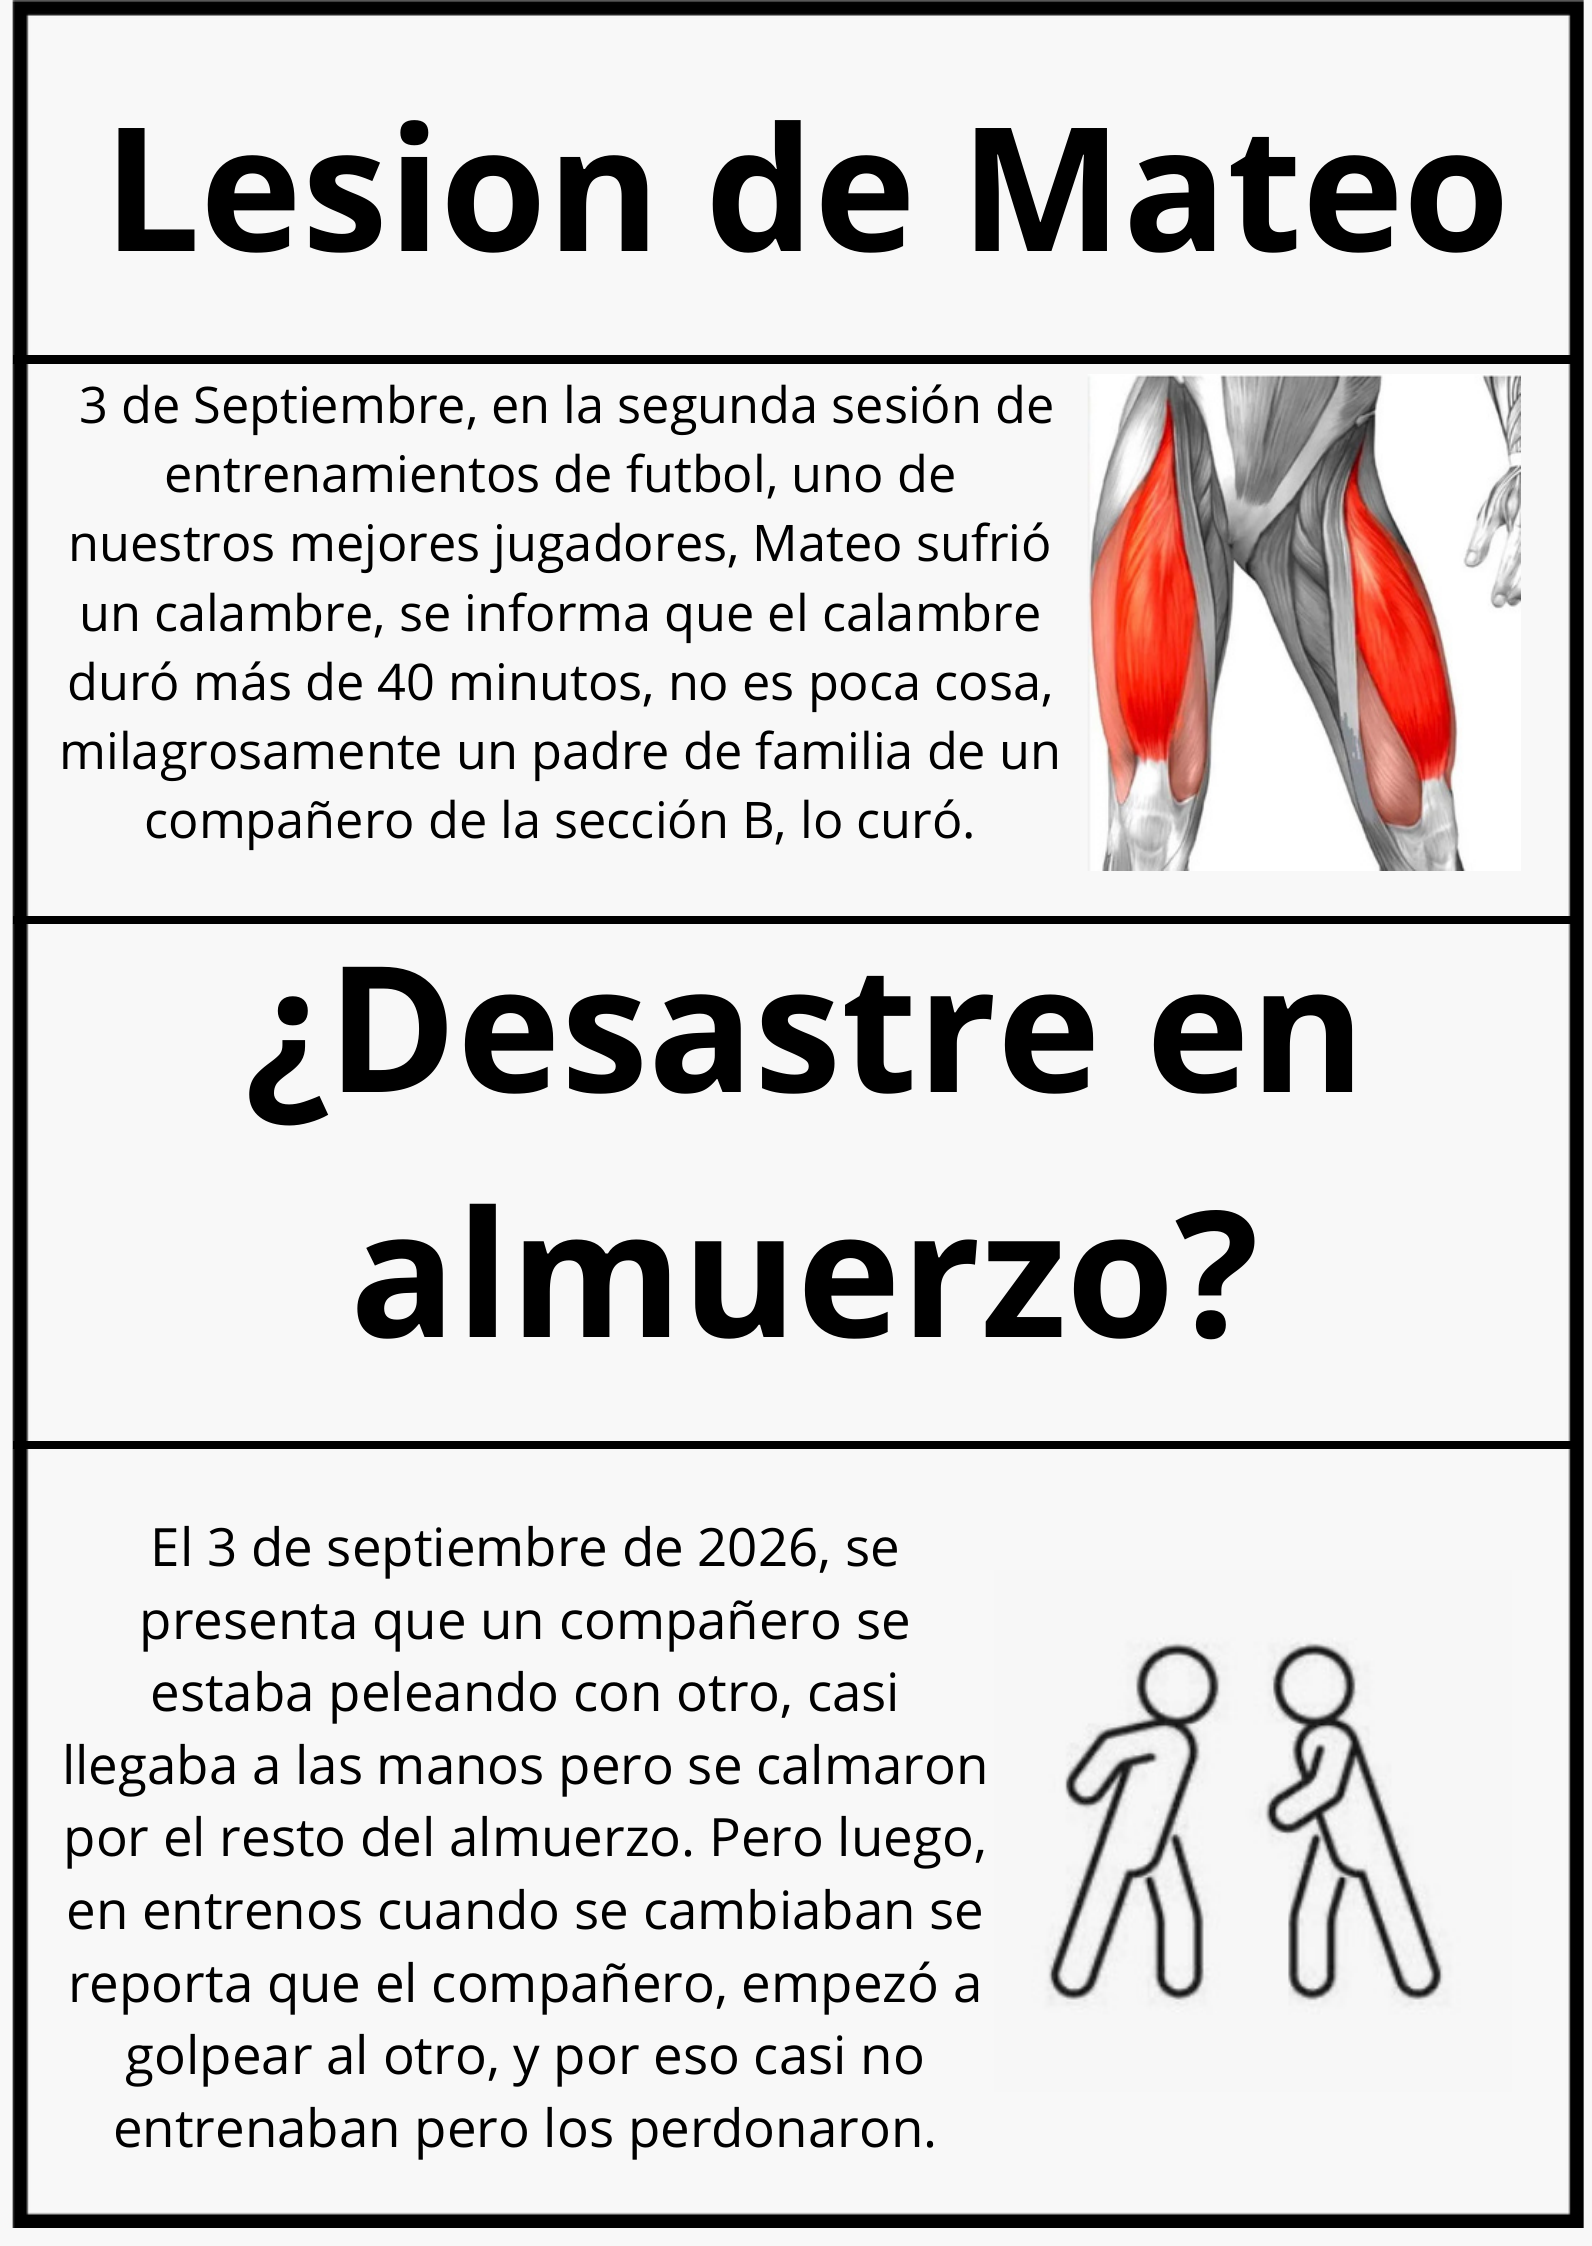
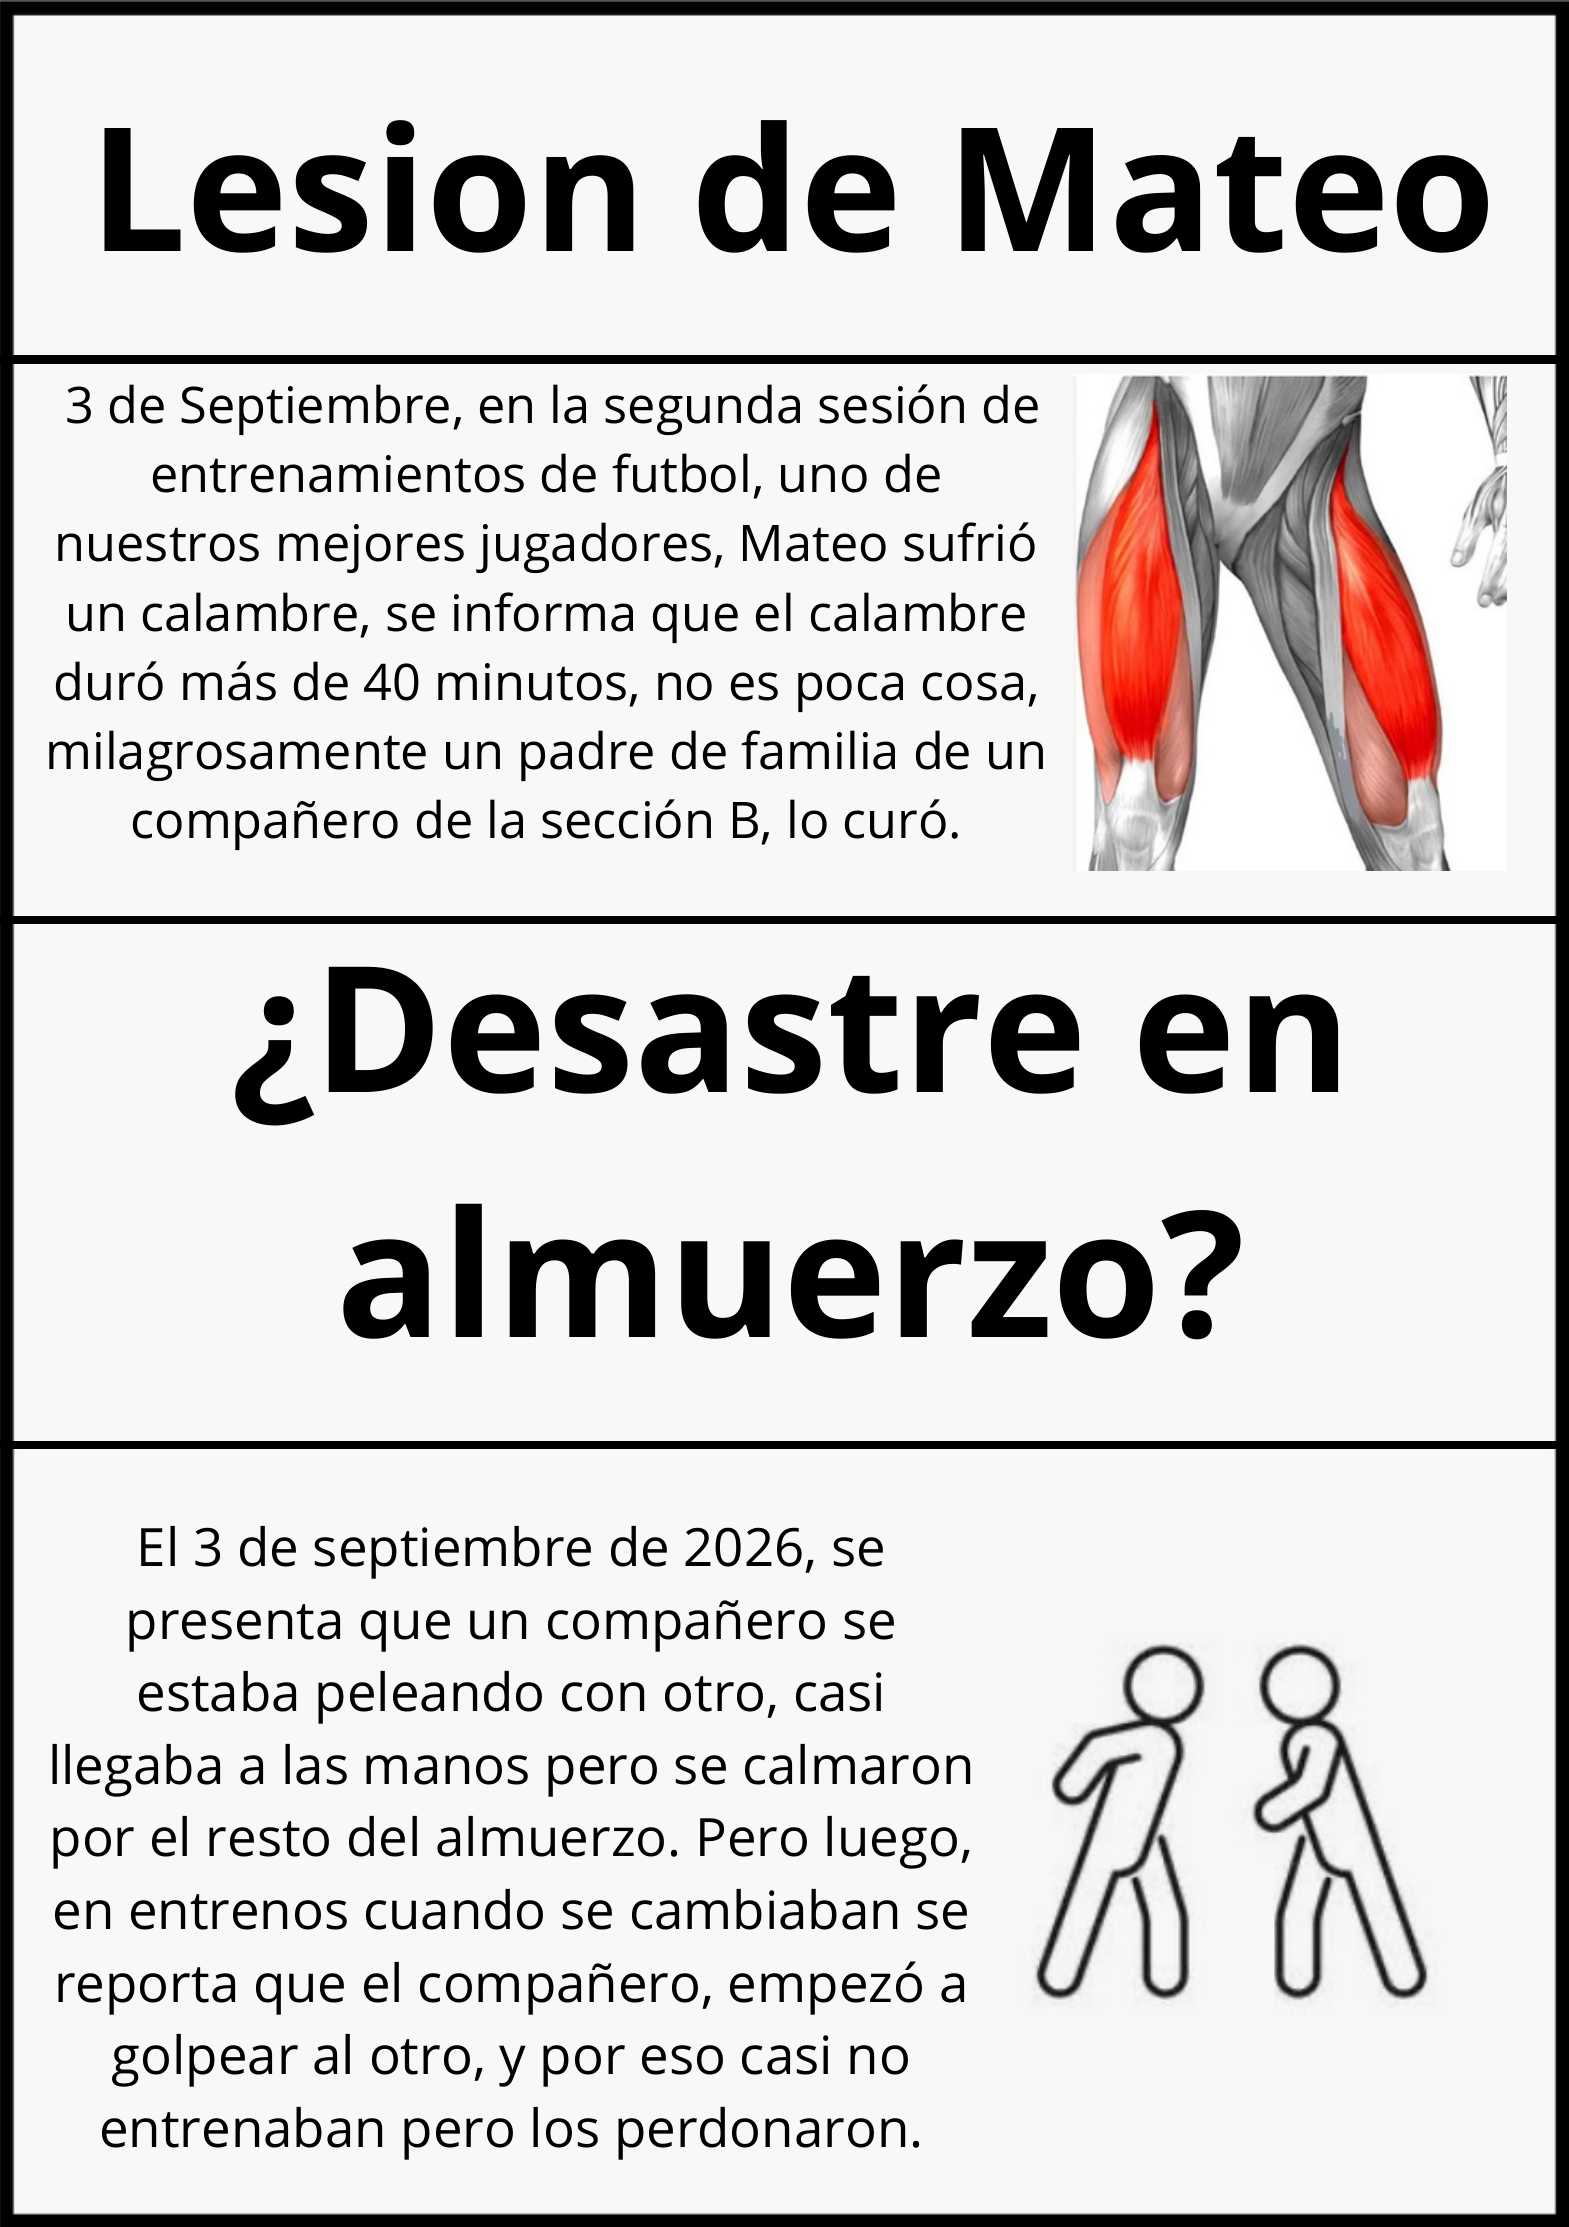
fix(periodico): recortar pegado al marco negro, sin margen blanco
Antes: el crop dejaba white margin entre el borde del marco negro y
el borde de la imagen. Ahora detecta las filas/columnas donde >=35%
de los pixeles son oscuros (empiricamente las 4 lineas del marco
tienen ~39% de densidad en el eje que las atraviesa) y usa la
primera/ultima como los bordes exactos del crop. Marco negro pegado
al borde en las 5 paginas.

Ajuste menor de aspect-ratio (1569:2227 en vez de 1592:2246) tanto
en la home embebida como en /periodico/.

diff --git a/periodico/index.html b/periodico/index.html
@@ -122,10 +122,10 @@
   }
   .book {
     position: relative;
-    /* Aspect ratio de las paginas cropeadas: 1592x2246 ≈ 0.71:1 (portrait).
-       Ancho limitado para que la altura (=width / 0.71) no pase 82vh. */
-    width: min(94vw, calc(82vh * 0.71), 620px);
-    aspect-ratio: 1592 / 2246;
+    /* Aspect ratio de las paginas cropeadas: 1569x2227 ≈ 0.705:1 (portrait).
+       Ancho limitado para que la altura (=width / 0.705) no pase 82vh. */
+    width: min(94vw, calc(82vh * 0.705), 620px);
+    aspect-ratio: 1569 / 2227;
     filter: drop-shadow(0 30px 60px rgba(12,24,70,.22)) drop-shadow(0 8px 18px rgba(12,24,70,.14));
   }
   .page {

diff --git a/index.html b/index.html
@@ -1672,10 +1672,10 @@
   }
   .perio-book {
     position: relative;
-    /* Paginas cropeadas 1592x2246 (portrait). Width limitada para que
-       height (=width/0.71) no pase 78vh. */
-    width: min(94vw, calc(78vh * 0.71), 600px);
-    aspect-ratio: 1592 / 2246;
+    /* Paginas cropeadas 1569x2227 (portrait). Width limitada para que
+       height (=width/0.705) no pase 78vh. */
+    width: min(94vw, calc(78vh * 0.705), 600px);
+    aspect-ratio: 1569 / 2227;
     filter: drop-shadow(0 30px 60px rgba(12,24,70,.22)) drop-shadow(0 8px 18px rgba(12,24,70,.14));
     cursor: grab;
     outline: none;
